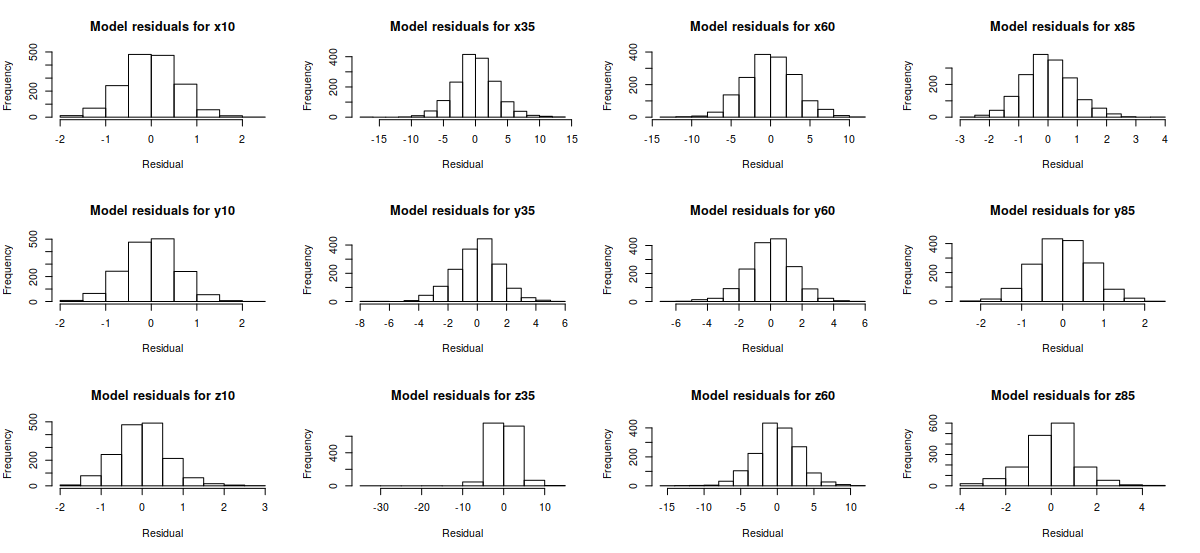
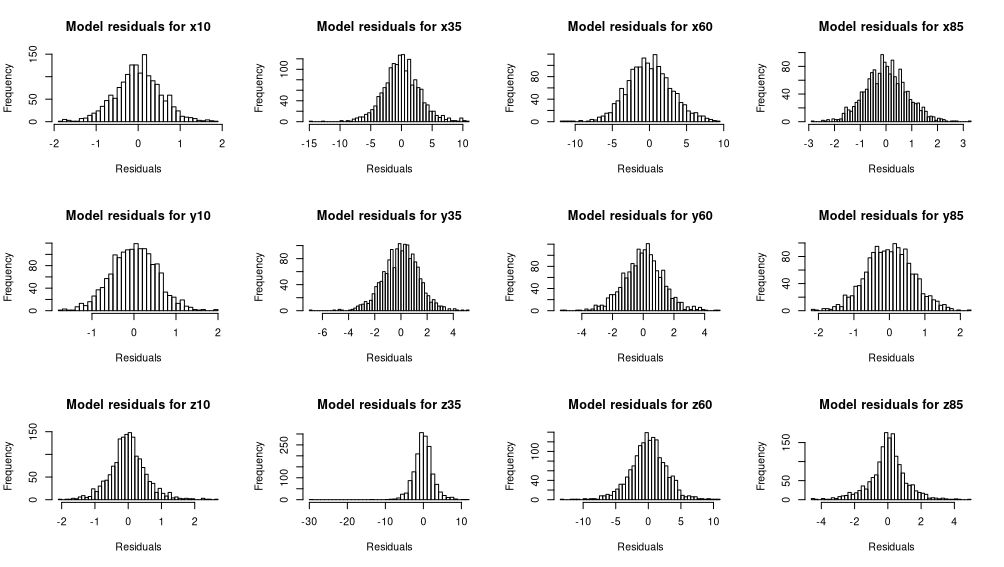
Rewritten ANOVA discussion. Introduce interactions

diff --git a/latex/proj1.tex b/latex/proj1.tex
@@ -39,10 +39,16 @@
 \begin{document}
 
 \maketitle
-%\thispagestyle{fancy}
+\thispagestyle{empty}
 %\tableofcontents
-\tableofcontents
-\newpage 
+%\tableofcontents
+\renewcommand{\abstractname}{Summary}
+\begin{abstract}
+yadda yadda yadda yadda yadda yadda yadda yadda yadda yadda yadda yadda yadda yadda yadda yadda yadda yadda yadda yadda yadda yadda yadda yadda yadda yadda yadda yadda yadda yadda yadda yadda yadda yadda yadda yadda yadda yadda yadda yadda yadda yadda yadda yadda yadda yadda yadda yadda yadda yadda yadda yadda yadda yadda yadda yadda yadda yadda yadda yadda yadda yadda yadda yadda yadda yadda yadda yadda yadda yadda yadda yadda yadda yadda yadda yadda yadda yadda yadda yadda yadda yadda yadda yadda yadda yadda yadda yadda yadda yadda yadda yadda yadda yadda yadda yadda yadda yadda yadda yadda yadda yadda yadda yadda yadda yadda yadda yadda yadda yadda yadda yadda yadda yadda yadda yadda yadda yadda 
+\end{abstract}
+\clearpage
+\newpage
+\setcounter{page}{1}
 
 
 \section{Introduction}
@@ -56,12 +62,6 @@ Two simple machine learning models, a classification tree and a 3-nearest neighb
 All code is available in the \texttt{src} folder at \url{https://github.com/sorenmulli/02445projects.git}.
 
 \section{Data}
-The data consists of 16 experiments where ten right-handed people had to move a cylinder over another cylinder.
-The size and weight of the cylinders varied over the experiments, and each person had to perform the movement of each experiment 10 times.
-Thus, the data was structured in a $ 16\times 10\times 10 $ array, with axes: experiment\(\times\)person\(\times\)repetition.
-For every such repetition, the $ x, y, $ and $ z $ coordinates of the movement where recorded 100 times, such that the data for each repetition was a $ 100\times 3 $ matrix.
-The data had been preprocessed such that every curve was of the same length.
-Some of the movements are plotted in figure \ref{fig:trajects}.
 \begin{figure}[H]
 	\centering
 	\subfloat{
@@ -74,14 +74,20 @@ Some of the movements are plotted in figure \ref{fig:trajects}.
 	\label{fig:trajects}
 	\caption{Hand movements of two different people in the fourth experiment.}
 \end{figure}
+The data consists of 16 experiments where ten right-handed people had to move a cylinder over another cylinder.
+The size and weight of the cylinders varied over the experiments, and each person had to perform the movement of each experiment 10 times.
+Thus, the data was structured in a $ 16\times 10\times 10 $ array, with axes: experiment\(\times\)person\(\times\)repetition.
+For every such repetition, the $ x, y, $ and $ z $ coordinates of the movement where recorded 100 times, such that the data for each repetition was a $ 100\times 3 $ matrix.
+The data had been preprocessed such that every curve was of the same length.
+Some of the movements are plotted in figure \ref{fig:trajects}.
 
-\noindent 
-For our purposes, it was benificial to consider each recording of $ x, y, $ and $ z $ a set of three features, so we ravelled the data such that each repetition had $ 300 $ features with one observation each.
+For our purposes, it was beneficial to consider each recording of $ x, y, $ and $ z $ a set of three features, so we ravelled the data such that each repetition had $ 300 $ features with one observation each.
 For the first part of the report, we investigated only experiment 4, so we had a total of 100 observations.
 The target variable was the person who performed the movement, so the goal of our machine learning models was a 10-class classification.
 
 Later, we tested wether or not the experiment had a significant effect.
 For this, we ravelled the data points into a vector of length $ 480,000 $ and used different subsets, which is explained in more details in section \ref{subsec:expeffect}.
+
 
 
 \section{Methods and analysis}
@@ -116,18 +122,19 @@ This is the motivation for the random baseline.
 Analysis of Variance, ANOVA, is used to compare the mean positional values between the groupings in the data with focus on detecting if there is a significant difference between the experiments.
 This test of whether the overall mean is due to random variation using variability decomposition is done on a linear, two-way, additive model:
 \[
-	y_{ijkl} = \alpha_{\text{experiment } i}+
-	\beta_{\text{person } j}
-	+ \epsilon_{ijkl}, \quad \epsilon_{ijkl} \sim \mathcal N (0, \sigma^2)
+	y_{ij} = \alpha_{\text{experiment } i}+
+	\beta_{\text{person } j}+ 
+	\gamma_{\text{experiment } i \times\text{person } j }
+	+ \epsilon_{ijkl}, \quad \epsilon_{ij} \sim \mathcal N (0, \sigma^2)
 \]
 The null hypothesis which was the focus of the test was $ H_0: \alpha_1=\alpha_2=\ldots=\alpha_{16} $ but the person was included to strengthen the test by taking the variance within this group into account and to assure that the data points were independent. 
-The additive model was assumed to improve runtime, as prelimenary runs showed interaction effects having little to no effect on the significance of the experiment.
+The multiplicative model was used to capture the entity of the effects in the data and avoid the observations being non-independent.
 
 Because ANOVA compares the means of different groups, it is relevant to compare the effect of the experiments one feature at a time.
 We therefore ravelled all 480,000 data points in to a vector, and split them into subsets of $ 1,600 $ data points, each corresponding to one of the $ 300 $ coordinate features.
 This also ensured independence between the observations, as e.g. an $ x_1 $ value would have had no influence on another.
 
-Running ANOVA on each subset yielded 300 $ p $ values, each describing the effect of the experiment on a particular coordinate vector. 
+Running ANOVA on resulted in the test containing 300 tests and thus returning 300 $ p $ values, each describing the effect of the experiment on a particular coordinate vector. These were then corrected with the Benjamini-Hochberg method \cite{BH}.
 
 
 \section{Results}
@@ -193,26 +200,60 @@ Estimate for accuracy difference, 99\pro\ confidence interval and \(p\)-value fo
 \]
 
 \subsection{Impact of experiment}
-We found that 261 of the 300 (87\pro) $ p $ values describing the experiment significance on a given coordinate feature were significant at a significance level of $ \alpha=5\pro $. Correcting them using the Benjamini-Hochberg method \cite{BH} left 260 (86.67\pro) significant $ p $ values. Their distribution can be seen on figure \ref{fig:sortp}.
+The results of the 300 two-way ANOVA's is given below. With \(N\) sign. tests is meant the amount of tests significant at \(\alpha = 0.01\). BH is referring to the Benjamini-Hochberg adjustment to account for the 300 tests. The \(\overline{ MSE}\) is computed as the average of the 300 MSE's
+\begin{table}[H]
+	\centering
+	\begin{tabular}{l | c c c c}
+		300 ANOVA's & \(\overline{MSE}\) & \(N\) sign. tests& \(N\) BH-sign. tests& Freq. BH-sign. tests\\
+		\hline 
+		Experiment  & 659 	& 258 & 258 	& 86\pro	\\
+		Person  & 648 		&  300 & 300	&100\pro  \\
+		Experiment\(\times\)Person&7.61  & 218 & 217 &	72\pro	\\
+		Residuals &3.6 &			
+	\end{tabular}
+	\label{tab:ranova}
+\end{table}\noindent
+The distribution of \(p\)-values of the experiment can be seen in the below on figure \ref{fig:sortp}.
+\begin{figure}[H]
+	\centering
+	\includegraphics[width=.8\textwidth]{pvalues}
+	\caption{Sorted $ p $ values. On the right figure, they are adjusted using the Benjamini-Hochberg correction algorithm.}\label{fig:sortp}
+\end{figure}
 
 \section{Discussion and Conclusion}
 \paragraph{Validity of statistical analyses}
 The parametric McNemar test is noted to be an approximation from asymptotic theory and \cite{Tue} states that the \(p\) values and confidence intervals should be considered together and that they only hold when \(n_{12}+n_{21}> 5\). This is seen to hold for all the matrices (the sums being 31, 58 and 49 for the comparisons) such that the results of the McNemar comparisons are seen as accurate.
 
-The four-way ANOVA on the other hand has some major issues with model assumptions. The assumption of independence is arguably realized as all observations are fully divided by these four groups. This was also the motivation for doing the full four-way analysis and including each single of the 300 coordinates as a factor. It must, however, be noted that interactions between these four groupings were not tested.
 
-The assumption of residual variance homogeneity is visualized with boxplots. For \textit{experiment}, which is the goal of this test, it seems reasonable bar some outliers, especially in experiment 5, at this zoom level. Similar boxplots for person and repetition are included in the appendix  at figure \ref{fig:vars} and look very similar with single outliers.
+For the 300 two-way ANOVA's, it is challenging to visualize the important assumptions of residual normality and residual variance homogeneity. An arbitrary subset of the 300 tests is thus chosen and visualized. Below, figure \ref{fig:qq} substantiates the assumption of normality as only minor outliers and non-normal tendencies can be seen. These residual populations are also visualized as histograms in the appendix, figure \ref{fig:residuals}.
+
+The assumption of variance homogeneity for the \textit{experiment} factors is in the same vein visualized by boxplots of these same 12 coordinate features. 
+From this (somewhat overwhelming) plot at figure \ref{fig:vars}, the assumptions seem reasonably well fulfilled at the given zoom level as only few of these coordinate tests have experiment levels with visibly differing variance.  
+The assumption that the errors are regarded as fulfilled between the groups of experiments and people, but the repetition number was not included in the ANOVA such that this could be a source of unmodelled grouping of the data. 
+For further work these two-way ANOVA could be expanded to three-way to include this variation even though it is not expected to explain a large portion of the variability in the positional data.
+
 \begin{figure}[H]
 	\centering
-	\includegraphics[width=.7\textwidth]{var_exp}
-\label{fig:vexp}
+	\includegraphics[width=.9\textwidth]{qq}
+	\caption{Quantile/quantile-plots of the residuals of twelve of the 300 ANOVA models. Major problems are only seen in the bottom rightmost.}\label{fig:qq}
 \end{figure}\noindent
-Finally, the assumption of residual normality of ANOVA is checked using a histogram and a quantile/quantile visualization. This assumption shows clear problems: The residual distribution is too narrow for the normal bell curve and has long tails and negative outliers. This severely limits the accuracy of the statistical claims of the ANOVA and results in a higher risk of type I errors than the \(p\) values indicate.
-\begin{figure}[H]
-	\centering
-	\includegraphics[width=.7\textwidth]{qq}
-	\caption{Histogram and quantile/quantile-plot of the residuals of the ANOVA model.}\label{fig:qq}
-\end{figure}
+For this large amount of tests, the assumptions in each are not fully tested. 
+Thus, to achieve precise measurements of number of significant tests, the model validation should include  full investigation of residual distribution including search for nonlinear effects in the tests.
+Furthermore, examinations of variance homogeneity with regards to the \textit{person} factors and the interactions should be carried out. 
+%The four-way ANOVA on the other hand has some major issues with model assumptions. The assumption of independence is arguably realized as all observations are fully divided by these four groups. This was also the motivation for doing the full four-way analysis and including each single of the 300 coordinates as a factor. It must, however, be noted that interactions between these four groupings were not tested.
+%
+%The assumption of residual variance homogeneity is visualized with boxplots. For \textit{experiment}, which is the goal of this test, it seems reasonable bar some outliers, especially in experiment 5, at this zoom level. Similar boxplots for person and repetition are included in the appendix  at figure \ref{fig:vars} and look very similar with single outliers.
+%\begin{figure}[H]
+%	\centering
+%	\includegraphics[width=.7\textwidth]{var_exp}
+%\label{fig:vexp}
+%\end{figure}\noindent
+%Finally, the assumption of residual normality of ANOVA is checked using a histogram and a quantile/quantile visualization. This assumption shows clear problems: The residual distribution is too narrow for the normal bell curve and has long tails and negative outliers. This severely limits the accuracy of the statistical claims of the ANOVA and results in a higher risk of type I errors than the \(p\) values indicate.
+%\begin{figure}[H]
+%	\centering
+%	\includegraphics[width=.7\textwidth]{qq}
+%	\caption{Histogram and quantile/quantile-plot of the residuals of the ANOVA model.}\label{fig:qq}
+%\end{figure}
 
 \subsection{Classification of persons}
 %The initial visualizations of the data in the 3D and 2D scatter plots -- \ref{fig:trajects} and \ref{fig:2dtrajects} -- showed clear differences between the repetitions of the first two people that humans would be able to classify visually especially it is seen that there is a clear difference in the way these two people move in the \(y\)-direction.  
@@ -223,18 +264,30 @@ It is seen that the expectation of some accuracy was confirmed: The 3-nearest ne
 The models were not tested for complexity controlling hyper parameters such as \(K\) for the KNN or the impurity function for the tree model and possible improvements could be found here. A larger improvement could be found in much more complex models for this high-dimensional data set such as random forests or deep neural networks. More generalizable performance could also be found by using the entire data set, not just experiment 4, to find more general personal  features and mannerisms.
 
 \subsection{Test of difference in experiments}
-No data is a perfect representation of reality, as it only represents a potentially noisy subset.
-In the case that the experiment had no effect on the movements, it would therefore still be expected to find that $ 5\pro $ of the $ p $ values are significant at a $ 5\pro $ significance level.
-However, we found that, even after correcting the $ p $ values, 86.67\pro\ of them were significant at our significance level of $ 5\pro $.
+As no data is a perfect representation of reality, under the null hypothesis, it would still be expected to find that $ 1\pro $ of the $ p $ values are significant at a $ 1\pro $ significance level. However, we found that, even after correcting the $ p $ values, 86\pro\ of them were significant at our significance level of $ 1\pro $.
+\begin{figure}[H]
+	\centering
+	\includegraphics[width=.9\textwidth]{coordinate_ps}
+	\caption{Benjamini-Hochberg corrected $ p $ from the 300 ANOVA \(F\) tests divided based on their corresponding coordinate features.}\label{fig:unsortp}
+\end{figure}\noindent 
+It is noted with some surprise that the \(p\)-value adjustments had very little effect. This is connected to the high-variance \(p\)-value distribution which shows that most values are very close to 0 but a minority have dramatically higher \(p\)-values as can be seen in figures \ref{fig:sortp}, \ref{fig:unsortp}. To understand this distribution, figure \ref{fig:unsortp} shows the \(p\)-values sorted after the test's corresponding coordinate.  
+A common sense expectation is confirmed: The high \(p\)-values -- where the means of the experiments are very similar -- occur at the beginning and end of the coordinates as most experiments start and end in the same way. 
+Especially the \(y\) coordinate shows high \(p\) values in the end suggesting that the experiments are designed in a way where similar movements are needed in the \(y\)-direction in the end. 
+This sharp division of the tests is further amplified by numeric underflow as 19\pro of the \(p\)-values are below float precision and are coerced to 0.
+\\\\
+As the goal of the test was to find if it was possible to distinguish the experiments from these tests, the null hypothesis can be rejected as this overwhelming amount of significant tests gives a high of evidence against the experiment being without effect of the curves.
+This conclusion is seen as significant even though some normality and independence assumptions are not fully tested as such convincing amount of evidence is found.
+ 
+The test method could be improved by including the repetition factor, performing non-parametric tests which do not require normality or using feature-specific data transformations to help improve the normality of the residuals.
 
-One of the major assumptions underlying ANOVA is that the residuals of the linear model are normally distributed.
-We plotted these for some of the coordinate features as shown on figure \ref{fig:residuals}.
-As the figure shows, the residuals follow normal distributions reasonably well, which supports the findings of ANOVA.
+The experiment also had an effect in connection with the person: The tests also found significant effects of the interaction between the experiment and the people at \(72\pro\) of the tests though this on average explained much less of the variability than the other groups.
 
-Given this and the much higher than expected number of significant $ p $ values, given the null hypothesis, we conclude that the experiment did indeed have a statistically significant impact on the arm trajectories of the test subjects.
+The \textit{person} factor was found to have significant differences on every one of the 300 tests. Person-to-person variability in arm movement is thus so high that differences between these 10 people can be found in every coordinate -- a result which gives further credence to the possibility of success in the human movement classification task.
 
-That is not to say, however, that certain improvements could not be implemented.
-Feature-specific data transformations could help improve the normality of the residuals.
+
+
+
+
 
 %The ANOVA finds that the experiment had a statistically significant impact on the hand movements of the test subjects with $ p<2.2\ctp{-16} $.
 %This was also the case for every individual experiment which was found to be different from the control with the smallest estimeate mean difference being experiment 3 with \(0.252\) and the largest being experiment 14 with \(3.22\).
@@ -247,7 +300,7 @@ Feature-specific data transformations could help improve the normality of the re
 %To test this conclusion further, non-parametric rank-sum tests or bootstrapping to achieve normality should be implemented.
 
 
-
+\newpage
 \begin{thebibliography}{9}
 	\bibitem{Tue} Herlau, Tue et al. "Introduction to Machine Learning and Data Mining: Lecture notes, Fall 2019, version 1.4b" 13/12-19.
 		\bibitem{kine} The University of British Columbia: School of Kinesiology:
@@ -266,6 +319,7 @@ Feature-specific data transformations could help improve the normality of the re
 
 \end{thebibliography}
 \appendix
+\newpage 
 \section{Figures}
 \begin{figure}[H]
 	
@@ -283,64 +337,19 @@ Feature-specific data transformations could help improve the normality of the re
 
 \begin{figure}[H]
 	\centering
-	\subfloat{
-		\includegraphics[width=.5\linewidth]{var_person}
-	}
-	\subfloat{
-		\centering
-		\includegraphics[width=.5\linewidth]{var_rep}
-	}
-	\caption{Variance homogeneity checked for persons and repetitions. Person 2 and repetition 7 have some problematic outlier behaviour. Coordinate was not checked for variance homogeneity as it was difficult to visualize these 300 factors. }
+	\includegraphics[width=\linewidth]{var_experio}
+	\caption{Visualization of the residual distributions of some of the coordinate features. }
 	\label{fig:vars}
 \end{figure}
 
 
-\begin{figure}[H]
-	\centering
-	\includegraphics[width=.7\textwidth]{pvalues}
-	\caption{Sorted $ p $ values. On the right figure, they are adjusted using the Benjamini-Hochberg correction algorithm.}\label{fig:sortp}
-\end{figure}
 
 \begin{figure}[H]
 	\centering
 	\includegraphics[width=.9\textwidth]{residuals}
 	\caption{Distributions of the residuals of linear models for some of the coordinate features.}\label{fig:residuals}
 \end{figure}
-%\begin{table}[H]
-%	\centering
-%	\begin{tabular}{lrrrrr}
-%		          &     Df&    Sum Sq& Mean Sq&   $ F $ value&    Pr($ < $F)    \\
-%		coordinate&    299& 230298000&  770227& 61477.804&  $ < $2.2e-16 ***\\
-%		repetition&      9&     10036&    1115&    89.007&  $ < $2.2e-16 ***\\
-%		person    &      9&    124551&   13839&  1104.595&  $ < $2.2e-16 ***\\
-%		experiment&     15&    433652&   28910&  2307.543&  $ < $2.2e-16 ***\\
-%		Residuals & 479631&   6009079&      13& &
-%\end{tabular}
-%\caption{R output from ANOVA. Three asterisks mean significance at a significance level of $ \alpha=0.1\pro $.}\label{tab:ranova}
-%\end{table}
-%\begin{table}[H]
-%	\centering
-%	\begin{tabular}{lrrrr}
-%		&Estimate &Std. Error &$ t $-statistic &\(p\)-value\\
-%		\hline 
-%		Control&    -1.16&   0.093391& -12.409&  $ < $ 2e-16 \\\hline
-%		experiment1&     0.36&   0.028900&  12.523&  $ < $ 2e-16 \\
-%		experiment2&     1.12&   0.028900&  38.847&  $ < $ 2e-16 \\
-%		experiment3&     0.252&   0.028900&   8.721&  $ < $ 2e-16 \\
-%		experiment4&     0.710&   0.028901&  24.584&  $ < $ 2e-16 \\
-%		experiment5&     1.44&   0.028900&  49.900&  $ < $ 2e-16 \\
-%		experiment6&     0.489&   0.028901&  16.901&  $ < $ 2e-16 \\
-%		experiment7&     1.16&   0.028900&  40.196&  $ < $ 2e-16 \\
-%		experiment8&     1.84&   0.028900&  63.795&  $ < $ 2e-16 \\
-%		experiment9&    0.704&   0.028902&  24.354&  $ < $ 2e-16 \\
-%		experiment10&    1.59&   0.028902&  55.087&  $ < $ 2e-16 \\
-%		experiment11&    2.50&   0.028900&  39.275&  $ < $ 2e-16 \\
-%		experiment12&    1.14&   0.028903 & 39.275 & \(<\) 2e-16\\	
-%		experiment13&    2.10&   0.028902&  72.780&  $ < $ 2e-16 \\
-%		experiment14&    3.22&   0.028900& 111.393&  $ < $ 2e-16 \\
-%		experiment15&   -0.613&   0.028900& -21.205&  $ < $ 2e-16 
-%	\end{tabular}
-%\end{table}\noindent
+
 \end{document}
 
 

diff --git a/latex/proj2.tex b/latex/proj2.tex
@@ -37,6 +37,7 @@
 \begin{document}
 
 \maketitle
+\thispagestyle{empty}
 %\thispagestyle{fancy}
 %\tableofcontents
 %-- Compare measurement methods of bioavailable phosphorous and examine the influence of bioavailable phosphorous on harvest yield. 
@@ -46,8 +47,10 @@
 \renewcommand{\abstractname}{Summary}
 \begin{abstract}
 	Farm yields depend on a large variety of factors including phosphate concentrations in the soil. Using data from nine fields in Denmark and Norway, we attempt to answer two questions: Is there a statistically significant difference between the predictive abilities of data from different measurement methods (Olsen P and DGT), and does the amount of bioavailable phosphorus impact the yield? We use both linear models and the Michaelis-Menten model are used to model the yield as a function of the phosphate availability, and their errors are compared using $ t $ test. We use ANCOVA to test for a significant impact on harvest yield. We find that the DGT measurements have more explanatory power, though not enough to be statisticallly significant ($ p=0.21 $). The ANCOVA shows that the amount of phosphate impacts the harvest yields ($ p=2\ctp{-10} $ for Olsen P and $ p=4\ctp{-13} $ for DGT), though the model assumptions are only somewhat fulfilled.
-\end{abstract}\newpage
-
+\end{abstract}
+\clearpage
+\newpage
+\setcounter{page}{1}
 
 \section{Introduction}
 A wide range of very different effects are in play in determining the output yield of a farm.
@@ -183,7 +186,7 @@ An important factor in the hinted, higher predictive power of the DGT measuremen
 If the data corresponds well to the general field distribution and the Michealis-Menten model is a good approximation of the generative story, a heuristic can be formed that the DGT-technique should be used on low-yield fields. 
 On the other hand, if field 11 is seen as an outlier which should be excluded from the models (an idea somewhat supported by the two NA's in the four yield measurements from field 11), then the evidence for the advantage of DGT shrinks considerably.
 
-
+\newpage 
 \begin{thebibliography}{9}
 	\bibitem{michment}Dragan, J., Kristian, S., Scitovski, R.: "Total least squares fitting Michaelis–Menten enzyme kinetic model function", 04-07, Journal of Computational and Applied Mathematics, 201:1. 
 
